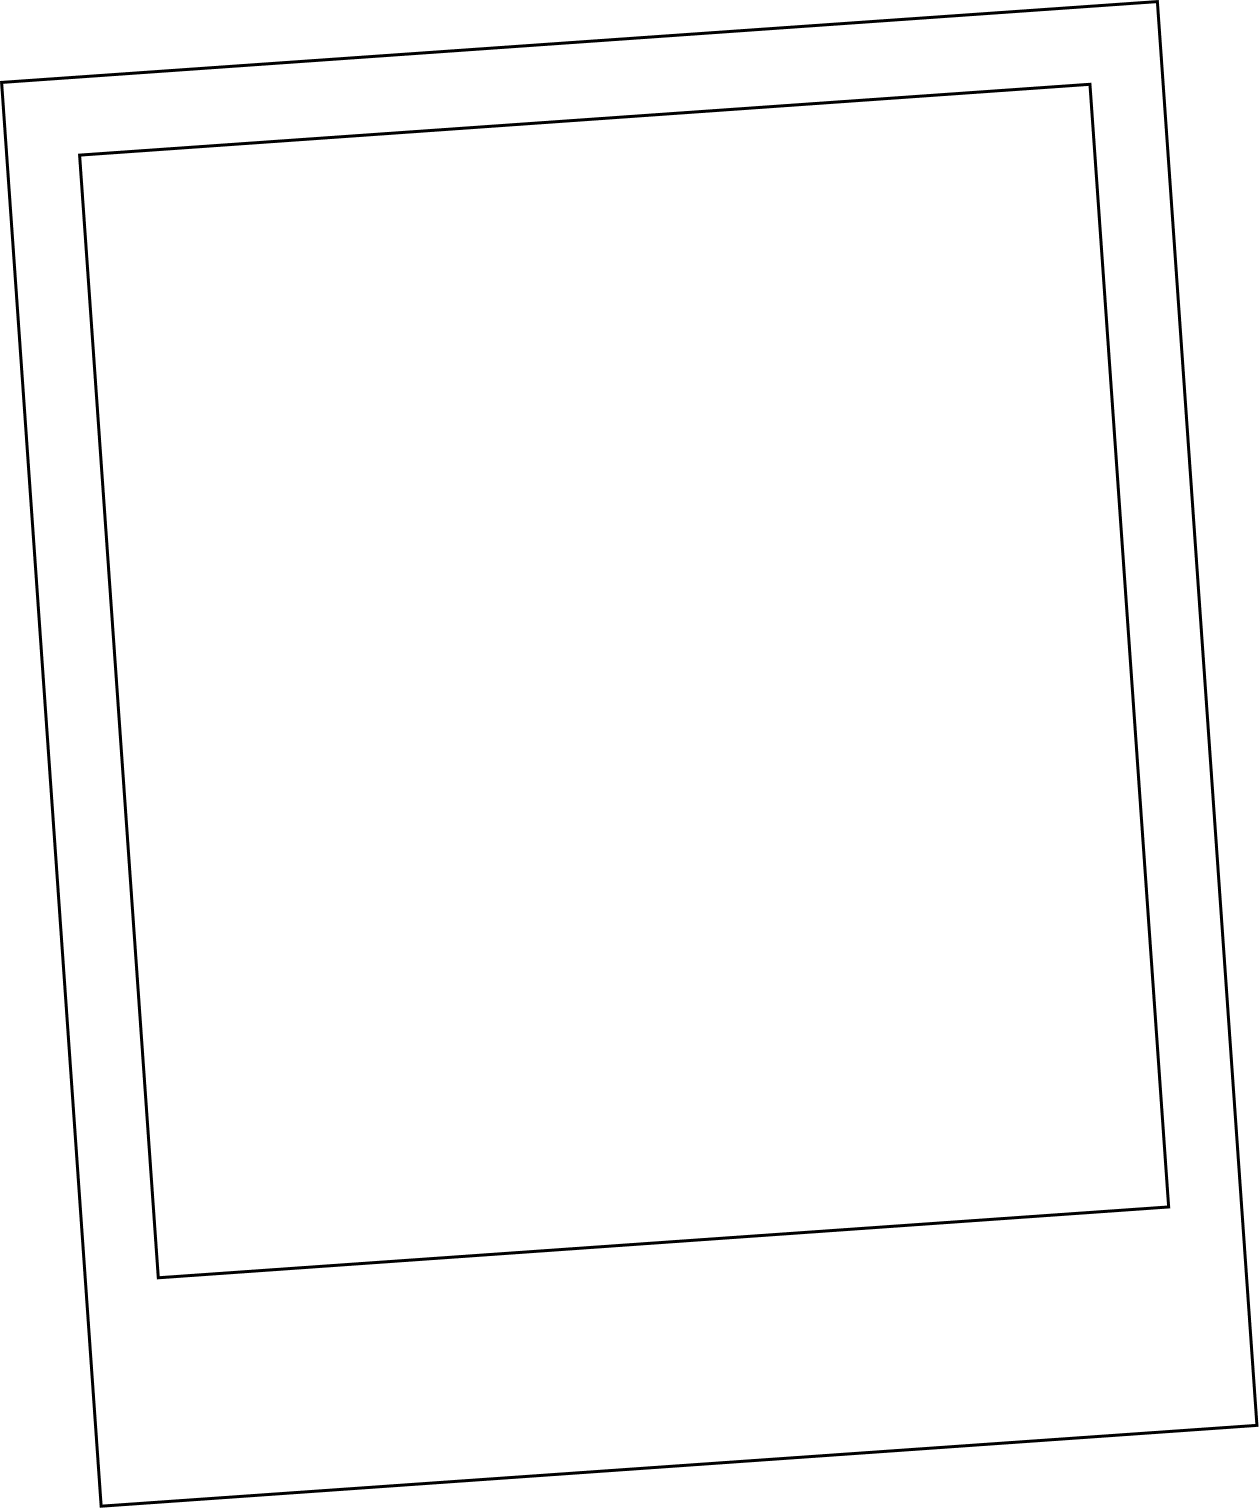
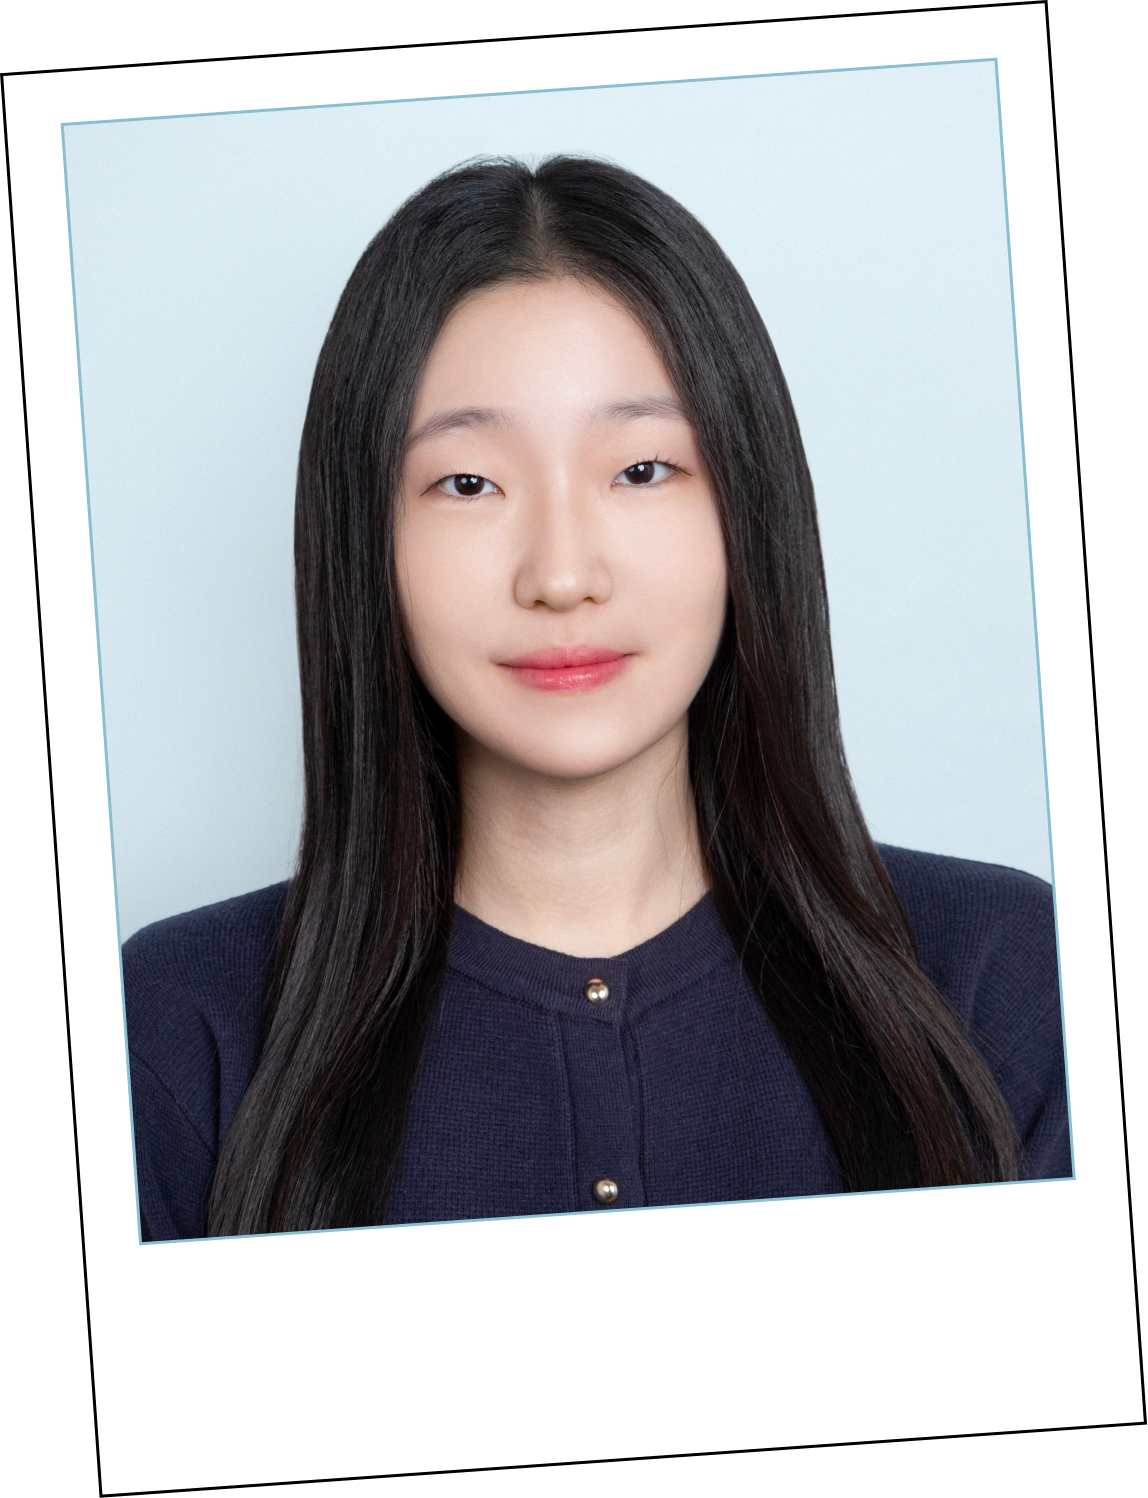
사진, 한 줄 설명 추가

diff --git a/css/style.css b/css/style.css
@@ -323,7 +323,7 @@ body::-webkit-scrollbar-track {
 }
 
 .sec-2 .calender .profile-left .photo {
-  width: 418px;
+  width: 380px;
 }
 
 .sec-2 .calender .profile-left .photo > img {
@@ -341,8 +341,9 @@ body::-webkit-scrollbar-track {
 .sec-2 .calender .profile-left .p-info > .name {
   font-family: 'OngleipParkDahyeon';
   display: flex;
-  align-items: baseline;
+  align-items: center;
   gap: 8px;
+  white-space: nowrap;
 }
 
 .sec-2 .calender .profile-left .p-info > .name > .p-name {
@@ -351,7 +352,7 @@ body::-webkit-scrollbar-track {
 }
 
 .sec-2 .calender .profile-left .p-info > .name > .sub {
-  font-size: 20px;
+  font-size: 16px;
   color: #45546B;
 }
 

diff --git a/profile.html b/profile.html
@@ -30,7 +30,11 @@
           <div class="p-info">
             <div class="name">
               <p class="p-name">강 예 리</p>
-              <p class="sub">한 줄 설명</p>
+              <p class="sub">
+                차분히 기록하며 정리하고
+                <br>
+                경험을 설계하는 디자이너
+              </p>
             </div>
             <p class="eng">Kang Ye Ri</p>
 
